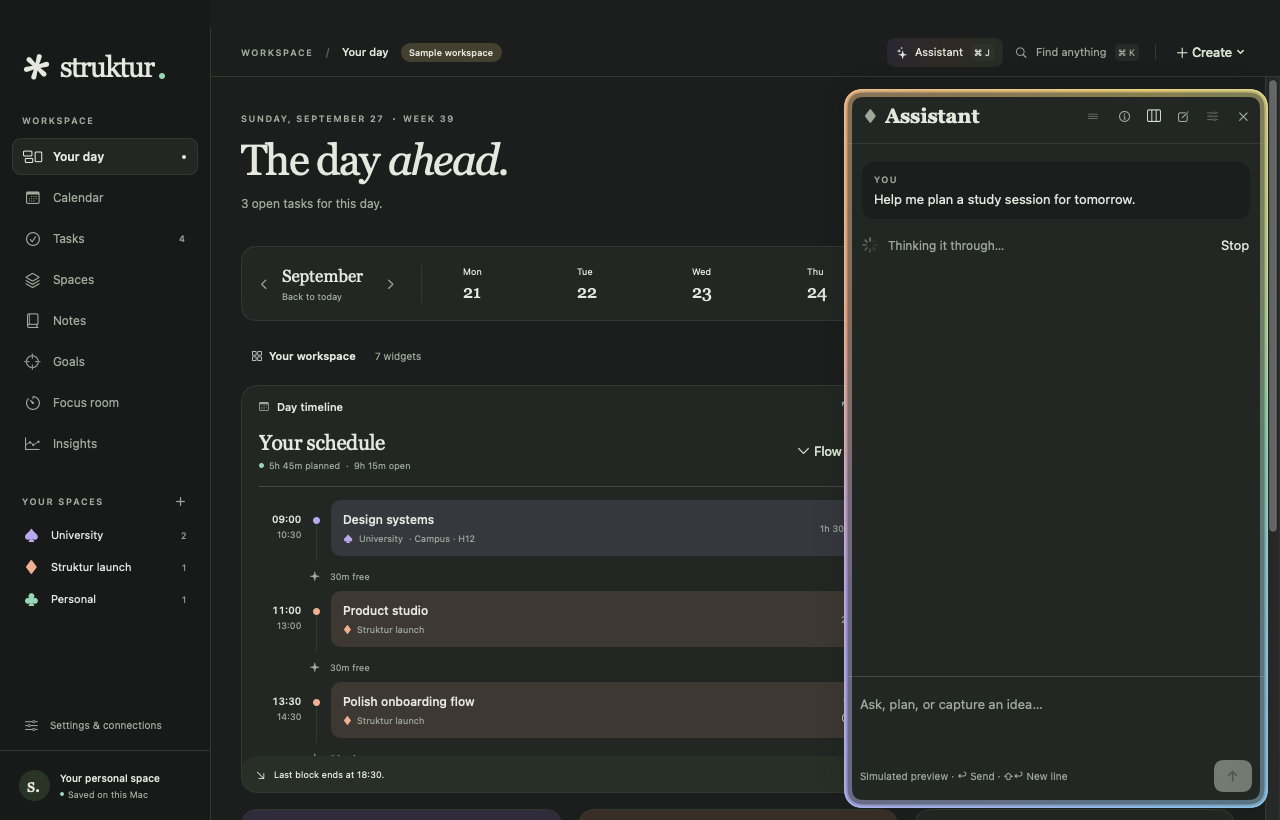
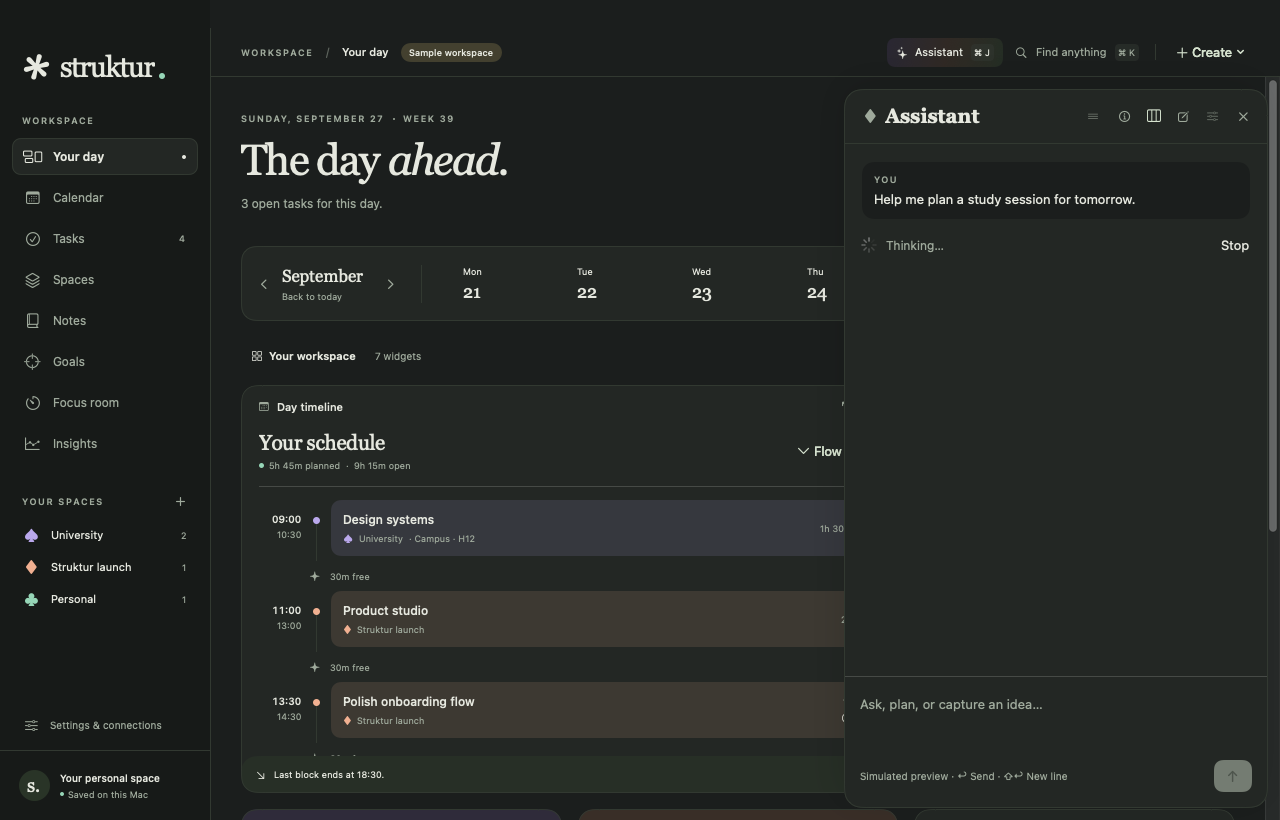
Replace assistant glow with a quiet native thinking state

Changed region(s): [[0.6562, 0.0915, 1.0, 1.0]]

diff --git a/Sources/Struktur/AssistantViews.swift b/Sources/Struktur/AssistantViews.swift
@@ -2,6 +2,7 @@ import SwiftUI
 
 struct AssistantPanel: View {
   @EnvironmentObject private var store: WorkspaceStore
+  @Environment(\.accessibilityReduceMotion) private var reduceMotion
   @ObservedObject var session: AssistantSession
   let anchor: Date
   let position: AssistantPanelPosition
@@ -35,9 +36,6 @@ struct AssistantPanel: View {
     .clipShape(RoundedRectangle(cornerRadius: 18))
     .overlay {
       RoundedRectangle(cornerRadius: 18).strokeBorder(StrukturTheme.hairline)
-    }
-    .overlay {
-      if session.isWorking { AssistantWorkingGlow() }
     }
     .shadow(color: .black.opacity(0.12), radius: 20, x: -4, y: 8)
     .foregroundStyle(StrukturTheme.ink)
@@ -168,8 +166,16 @@ struct AssistantPanel: View {
           }
           if session.isWorking {
             HStack(spacing: 10) {
-              ProgressView().controlSize(.small)
-              Text("Thinking it through…").font(.system(size: 12)).foregroundStyle(StrukturTheme.muted)
+              Group {
+                if reduceMotion {
+                  Image(systemName: "suit.diamond.fill")
+                    .font(.system(size: 9)).foregroundStyle(StrukturTheme.muted)
+                } else {
+                  ProgressView().controlSize(.small)
+                }
+              }
+              .frame(width: 14, height: 14).accessibilityHidden(true)
+              Text("Thinking…").font(.system(size: 12)).foregroundStyle(StrukturTheme.muted)
               Spacer()
               Button("Stop") { session.stop() }.buttonStyle(.plain)
             }.accessibilityElement(children: .contain)
@@ -363,35 +369,6 @@ struct AssistantPanel: View {
   }
   private func refreshConnection() {
     session.refreshConnection(preferences: store.preferences.assistant ?? AssistantPreferences())
-  }
-}
-
-private struct AssistantWorkingGlow: View {
-  @Environment(\.accessibilityReduceMotion) private var reduceMotion
-  @Environment(\.colorScheme) private var colorScheme
-
-  var body: some View {
-    TimelineView(.animation(minimumInterval: 1.0 / 24, paused: reduceMotion)) { timeline in
-      let phase = reduceMotion ? 0 : timeline.date.timeIntervalSinceReferenceDate * 2 * .pi / 10
-      let gradient = AngularGradient(
-        colors: [AccentToken.lilac, .peach, .butter, .mint, .sky, .lilac].map(\.color),
-        center: UnitPoint(x: 0.5 + 0.12 * sin(phase * 0.7), y: 0.5 + 0.12 * cos(phase * 0.9)),
-        angle: .radians(phase.truncatingRemainder(dividingBy: 2 * .pi)))
-      let outline = RoundedRectangle(cornerRadius: 18)
-      // Every edge stays lit. The gradient drifts and changes shape gently, while
-      // the crisp inner line keeps the panel's silhouette clear in either theme.
-      ZStack {
-        outline.strokeBorder(gradient, lineWidth: 8)
-          .blur(radius: 5)
-          .opacity(colorScheme == .dark ? 0.5 : 0.42)
-        outline.strokeBorder(gradient, lineWidth: 3.5)
-          .blur(radius: 1.5).opacity(0.65)
-        outline.strokeBorder(gradient, lineWidth: 1.5)
-      }
-      .opacity(reduceMotion ? 0.9 : 0.9 + 0.1 * sin(phase * 1.6))
-    }
-    .allowsHitTesting(false)
-    .accessibilityHidden(true)
   }
 }
 

diff --git a/Documentation/Verification.md b/Documentation/Verification.md
@@ -4,6 +4,8 @@ Updated 27 September 2026. This records local evidence, not App Store approval o
 
 ## Automated checks
 
+- Quiet Assistant follow-up (27 September): `swift test` again passed 195 checks with four opt-in live-model checks skipped. The decorative border timeline and gradient layers have been removed. Pending work uses the existing native progress indicator beside “Thinking…”, with a static diamond when Reduce Motion is enabled.
+
 - Assistant movement and border refresh (27 September): `swift test` passed 195 checks, with four opt-in live-model checks skipped (199 total). Added regressions cover continuous horizontal tracking, clamping beyond either edge, middle and same-position drops, tiny title movements, and preserving the preferred position when the available width collapses all three anchors. Existing native drag cancellation and saved provider/model/position regressions still pass. Drag state now lives in the overlay; clearing its offset and saving the destination share one settling animation.
 - Packaging (27 September): `swift build` and `./scripts/build-app.sh` passed for the local arm64 app; the packaging script's strict ad-hoc signature verification passed. This is a local build, not a publicly signed release.
 
@@ -51,8 +53,10 @@ Updated 27 September 2026. This records local evidence, not App Store approval o
 
 All interactive checks use temporary preview workspaces, not the personal workspace.
 
+- Quiet Assistant follow-up (27 September, supersedes the colored border below): inspected the neutral card outline and compact thinking indicator in light and dark at 1040 × 740. A simulated request completed into review cards; Stop on another request restored the typed message. Updated the dark README capture at 1280 × 820. The final local arm64 package built and passed strict ad-hoc signature verification. System-level Reduce Motion, physical input, and VoiceOver remain unverified in this pass; no personal workspace or live Apple data was used.
+
 - Assistant refresh (27 September): inspected light and dark previews at 1040 × 740. Replayed native header drags, a held drag with Escape cancellation, a small same-position drop, and position-menu changes. The held drag left the saved position unchanged; cancellation restored it. Relaunch restored the middle position. The draft survived moving and accepted further input. The dark panel stayed open while navigating to Focus, and Escape closed it afterward. These are synthetic native events, not physical trackpad checks.
-- Thinking border (27 September): a delayed simulated reply showed color along all four edges in both themes; successive captures showed the colors moving around the perimeter. Reply completion and Stop removed the glow, and Stop restored the message. The animation uses the existing lilac, peach, butter, mint, and sky tokens, with one 24 fps timeline and a static border under Reduce Motion. System-level Reduce Motion, full VoiceOver, and physical input remain unverified in this pass.
+- Earlier thinking border (27 September, superseded): a delayed simulated reply showed color along all four edges in both themes; successive captures showed the colors moving around the perimeter. Reply completion and Stop removed the glow, and Stop restored the message. The animation uses the existing lilac, peach, butter, mint, and sky tokens, with one 24 fps timeline and a static border under Reduce Motion. System-level Reduce Motion, full VoiceOver, and physical input remain unverified in this pass.
 - README demos (27 September): regenerated and visually inspected the real app's dashboard, weekly calendar, Notes preview, and dark Assistant at 1460 × 1060, 1460 × 980, and 1280 × 820. `scripts/capture-demos.sh` reproduces them using temporary sample workspaces, a fictional calendar fixture, and a simulated Assistant. It uses no API key or live Apple exchange. The UI helper exercised the Week and Preview controls and native message submission during capture.
 
 - Assistant panel (24 September): isolated light and dark previews at 1040 × 740 showed the pulsing lilac, peach, mint, and sky corners during a simulated response; the glow vanished when the response finished. A native header drag snapped the panel from right to left; the position menu moved it to the middle, and saved JSON plus relaunch confirmed persistence. Escape canceled a held drag without saving a new position. After a completed drag, the draft stayed intact, the composer accepted more input, and Escape closed the panel. The panel stayed open across page navigation, and a page control outside it remained clickable. Reduce Motion uses a static glow in code; a system-level Reduce Motion session and physical trackpad/VoiceOver checks remain unverified.

diff --git a/Documentation/Assistant.md b/Documentation/Assistant.md
@@ -6,7 +6,7 @@ Click **✦ Assistant** or press **⌘J** anywhere in the app. Its panel stays a
 
 **OpenAI · Cloud** is optional. Select it explicitly in Settings → Assistant, save your API key, and use **Test connection**. The default cloud model is `gpt-4.1-mini`; another model must support the Responses API, function calling, and structured outputs. Keys stay in macOS Keychain and are excluded from workspace files and backups. API billing is separate from ChatGPT. An unavailable or failed Apple model never sends the request to OpenAI automatically. Switching providers clears the conversation and pending proposals; your unsent message remains. Existing model IDs and keys are retained. Preferences without a provider field default to Apple.
 
-Context is selected automatically from your request and recent conversation. There is no context picker. The assistant can retrieve a requested calendar range (up to 31 days), open tasks, space names, and the current note or a matching note excerpt. Schedule overviews include overdue and unscheduled open tasks; targeted task searches retain overlapping scheduled work. Note images, deleted notes, and task/event note bodies are excluded. The header’s info button shows the context used for the last request. While answering, the entire panel border glows with slowly shifting lilac, peach, butter, mint, and sky colors. Reduce Motion keeps the border static. The **Assistant** button shows its **⌘J** shortcut and uses the same colors on hover.
+Context is selected automatically from your request and recent conversation. There is no context picker. The assistant can retrieve a requested calendar range (up to 31 days), open tasks, space names, and the current note or a matching note excerpt. Schedule overviews include overdue and unscheduled open tasks; targeted task searches retain overlapping scheduled work. Note images, deleted notes, and task/event note bodies are excluded. The header’s info button shows the context used for the last request. While answering, a small native activity indicator appears beside “Thinking…”, with a Stop button alongside it. The panel keeps the same neutral border as other cards. Reduce Motion replaces the spinner with a static diamond. The **Assistant** button shows its **⌘J** shortcut and uses the app’s pastel colors on hover.
 
 Straightforward English calendar questions, such as “What meetings do I have tomorrow?” and “What meetings on Tue 22?”, read Struktur’s calendar directly without a model call. Relative dates use the current date and workspace timezone, independently of the selected calendar day. Replies show the actual date checked and start/end times; meeting queries use the Meeting category and filter before limiting results. Date-only follow-ups retain the previous calendar filter. Contradictory or ambiguous dates ask for clarification, and unread or incomplete calendar data cannot produce a definitive empty-calendar claim. These reads cover items stored in Struktur; Apple Calendar exchange remains manual.
 

diff --git a/README.md b/README.md
@@ -34,9 +34,9 @@ Notes autosave locally and export to Markdown or PDF. In the Focus room, a timer
 
 ## A hand when you need one
 
-Open **Assistant** with **⌘J** to get a day brief, work through a note, or draft tasks and calendar blocks. Review and edit proposed items before adding them. Drag the header to place the panel on the left, in the middle, or on the right; its border glows softly while it thinks.
+Open **Assistant** with **⌘J** to get a day brief, work through a note, or draft tasks and calendar blocks. Review and edit proposed items before adding them. Drag the header to place the panel on the left, in the middle, or on the right. A small activity indicator shows when it is thinking.
 
-![Struktur in dark mode with the Assistant’s pastel thinking border](Documentation/Images/assistant-dark.png)
+![Struktur in dark mode with the Assistant open](Documentation/Images/assistant-dark.png)
 
 Apple's on-device model is the default on compatible Macs running macOS 26 or later. OpenAI is optional and uses your own API key. The app never switches to the cloud automatically. [Setup, privacy, and limits →](Documentation/Assistant.md)
 

diff --git a/Documentation/Images/README.md b/Documentation/Images/README.md
@@ -1,6 +1,6 @@
 # App screenshots
 
-Captured from Struktur on 27 September 2026 with `scripts/capture-demos.sh`.
+Captured from Struktur on 27 September 2026 using the isolated preview setup in `scripts/capture-demos.sh`. The dark Assistant capture was refreshed after replacing its colored glow with the neutral panel outline and native thinking indicator.
 
 | File | View | Size |
 | --- | --- | --- |
